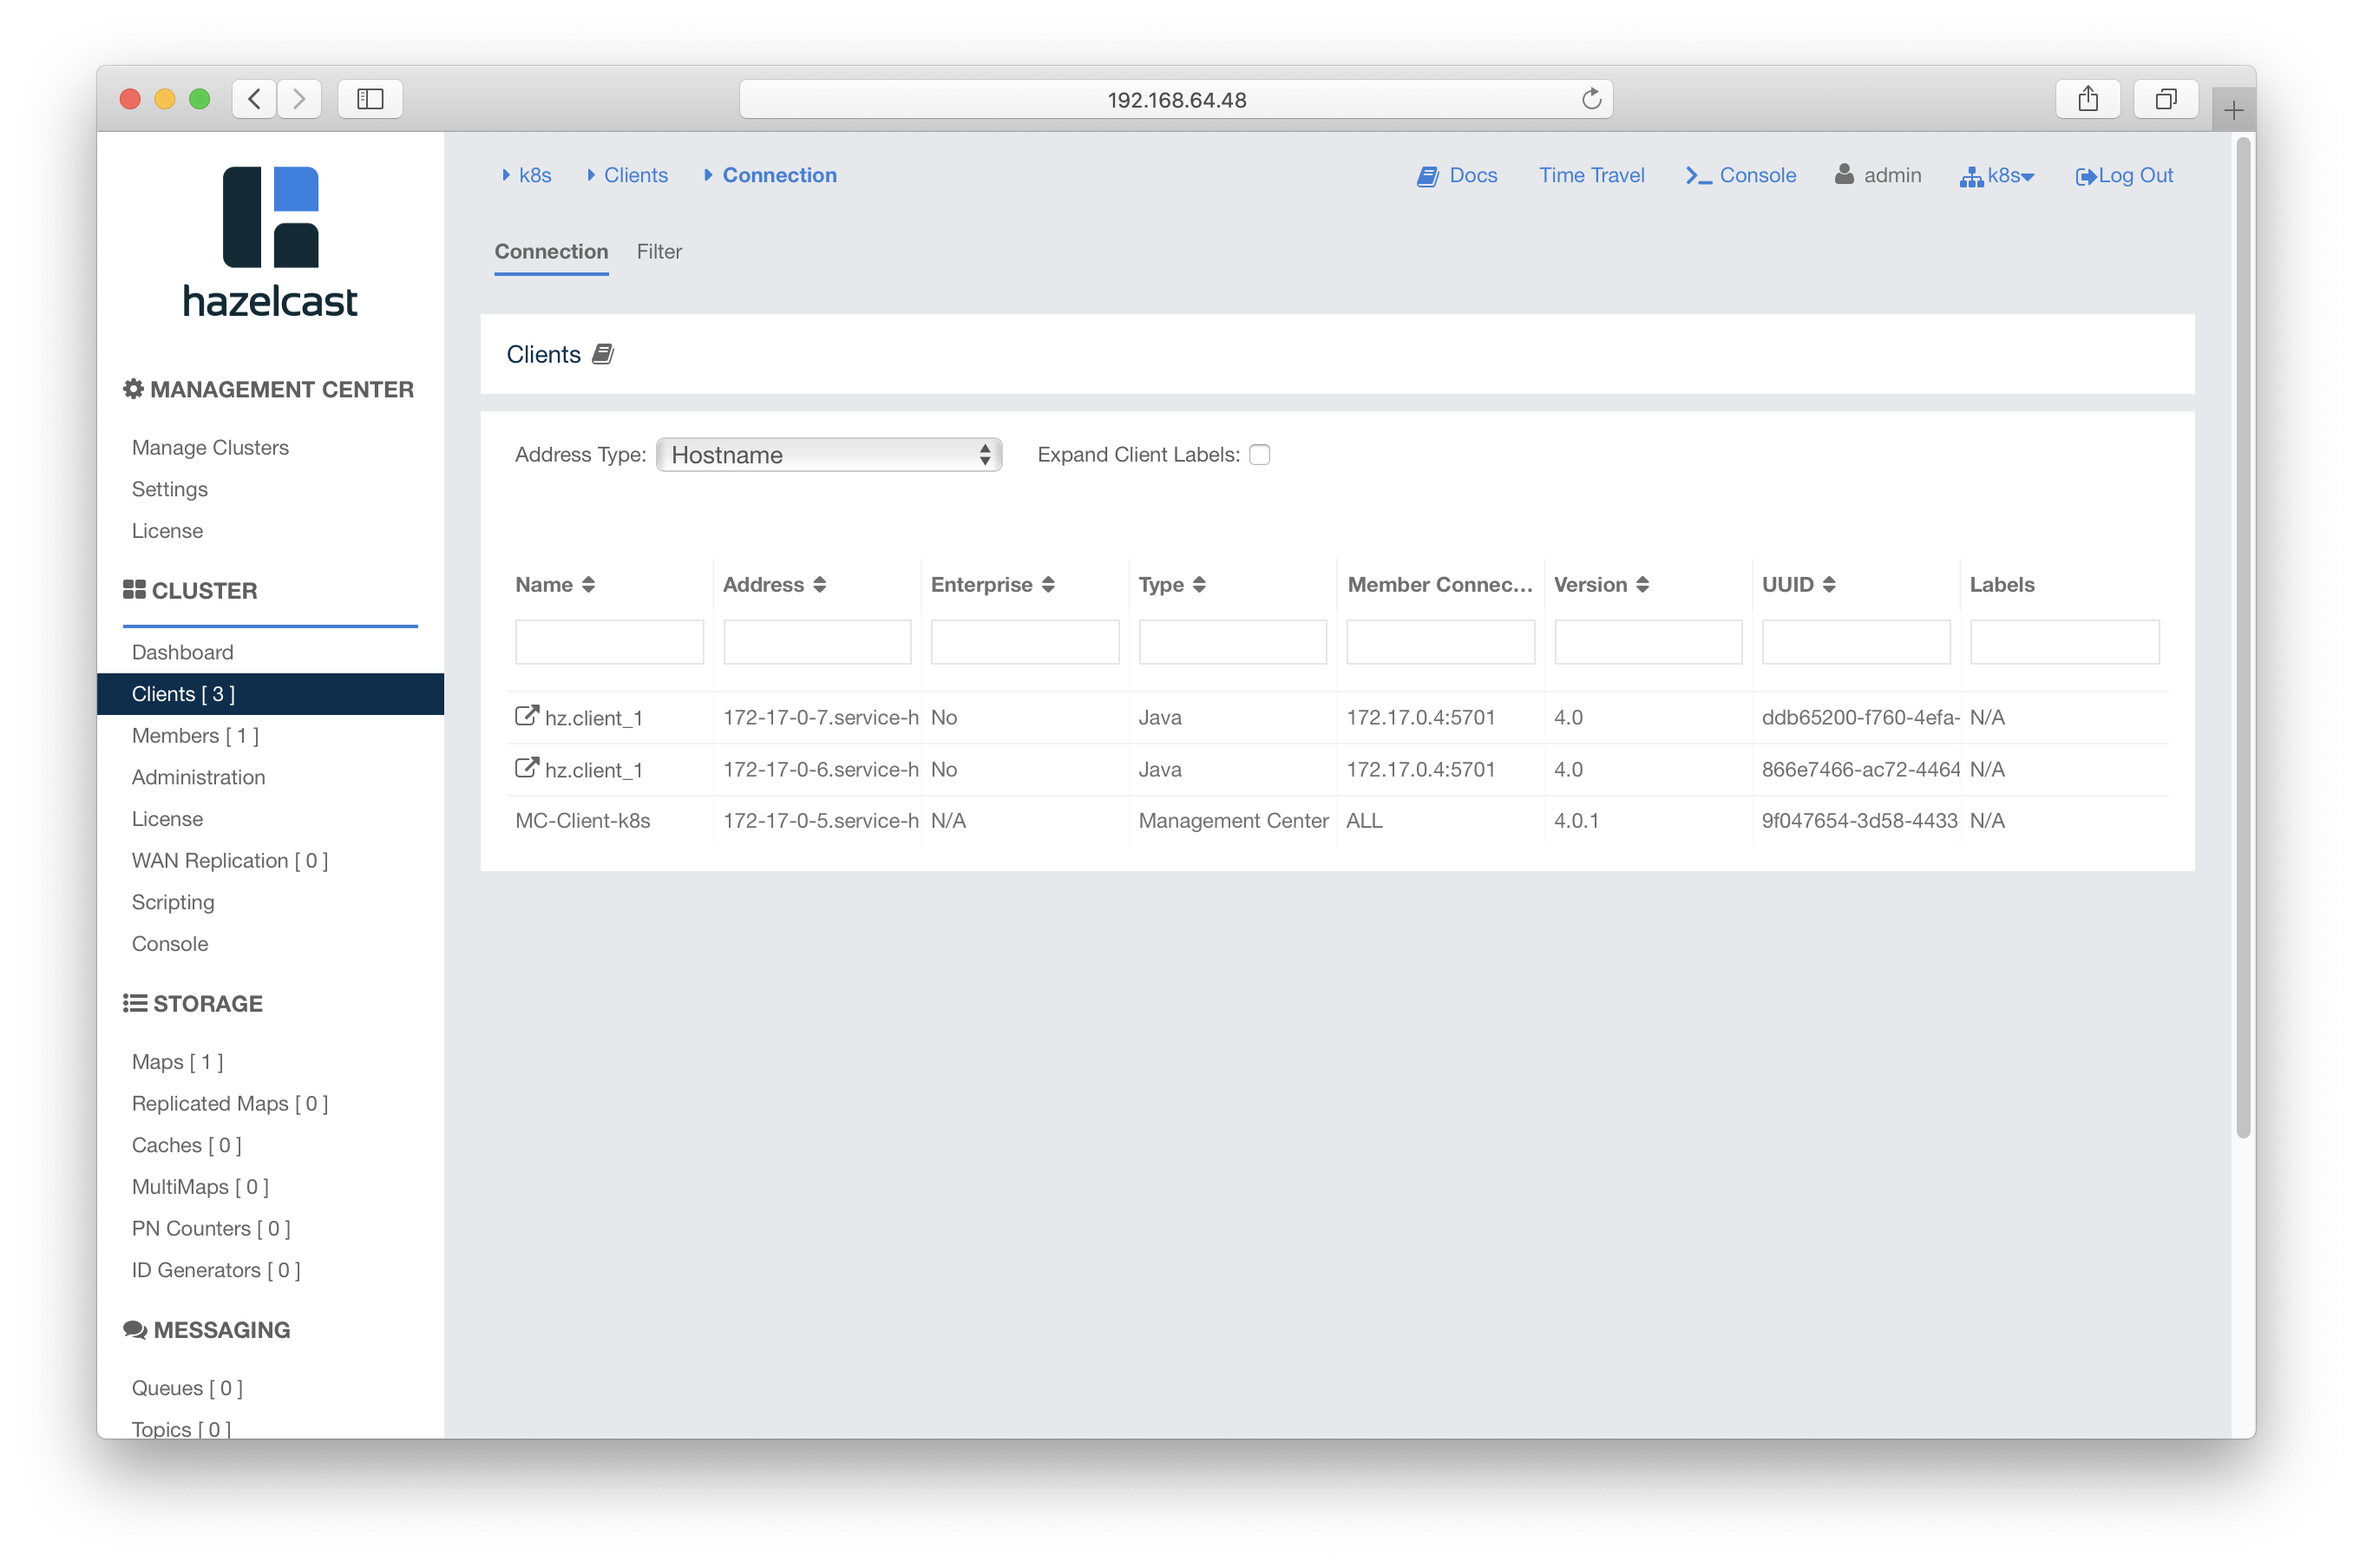
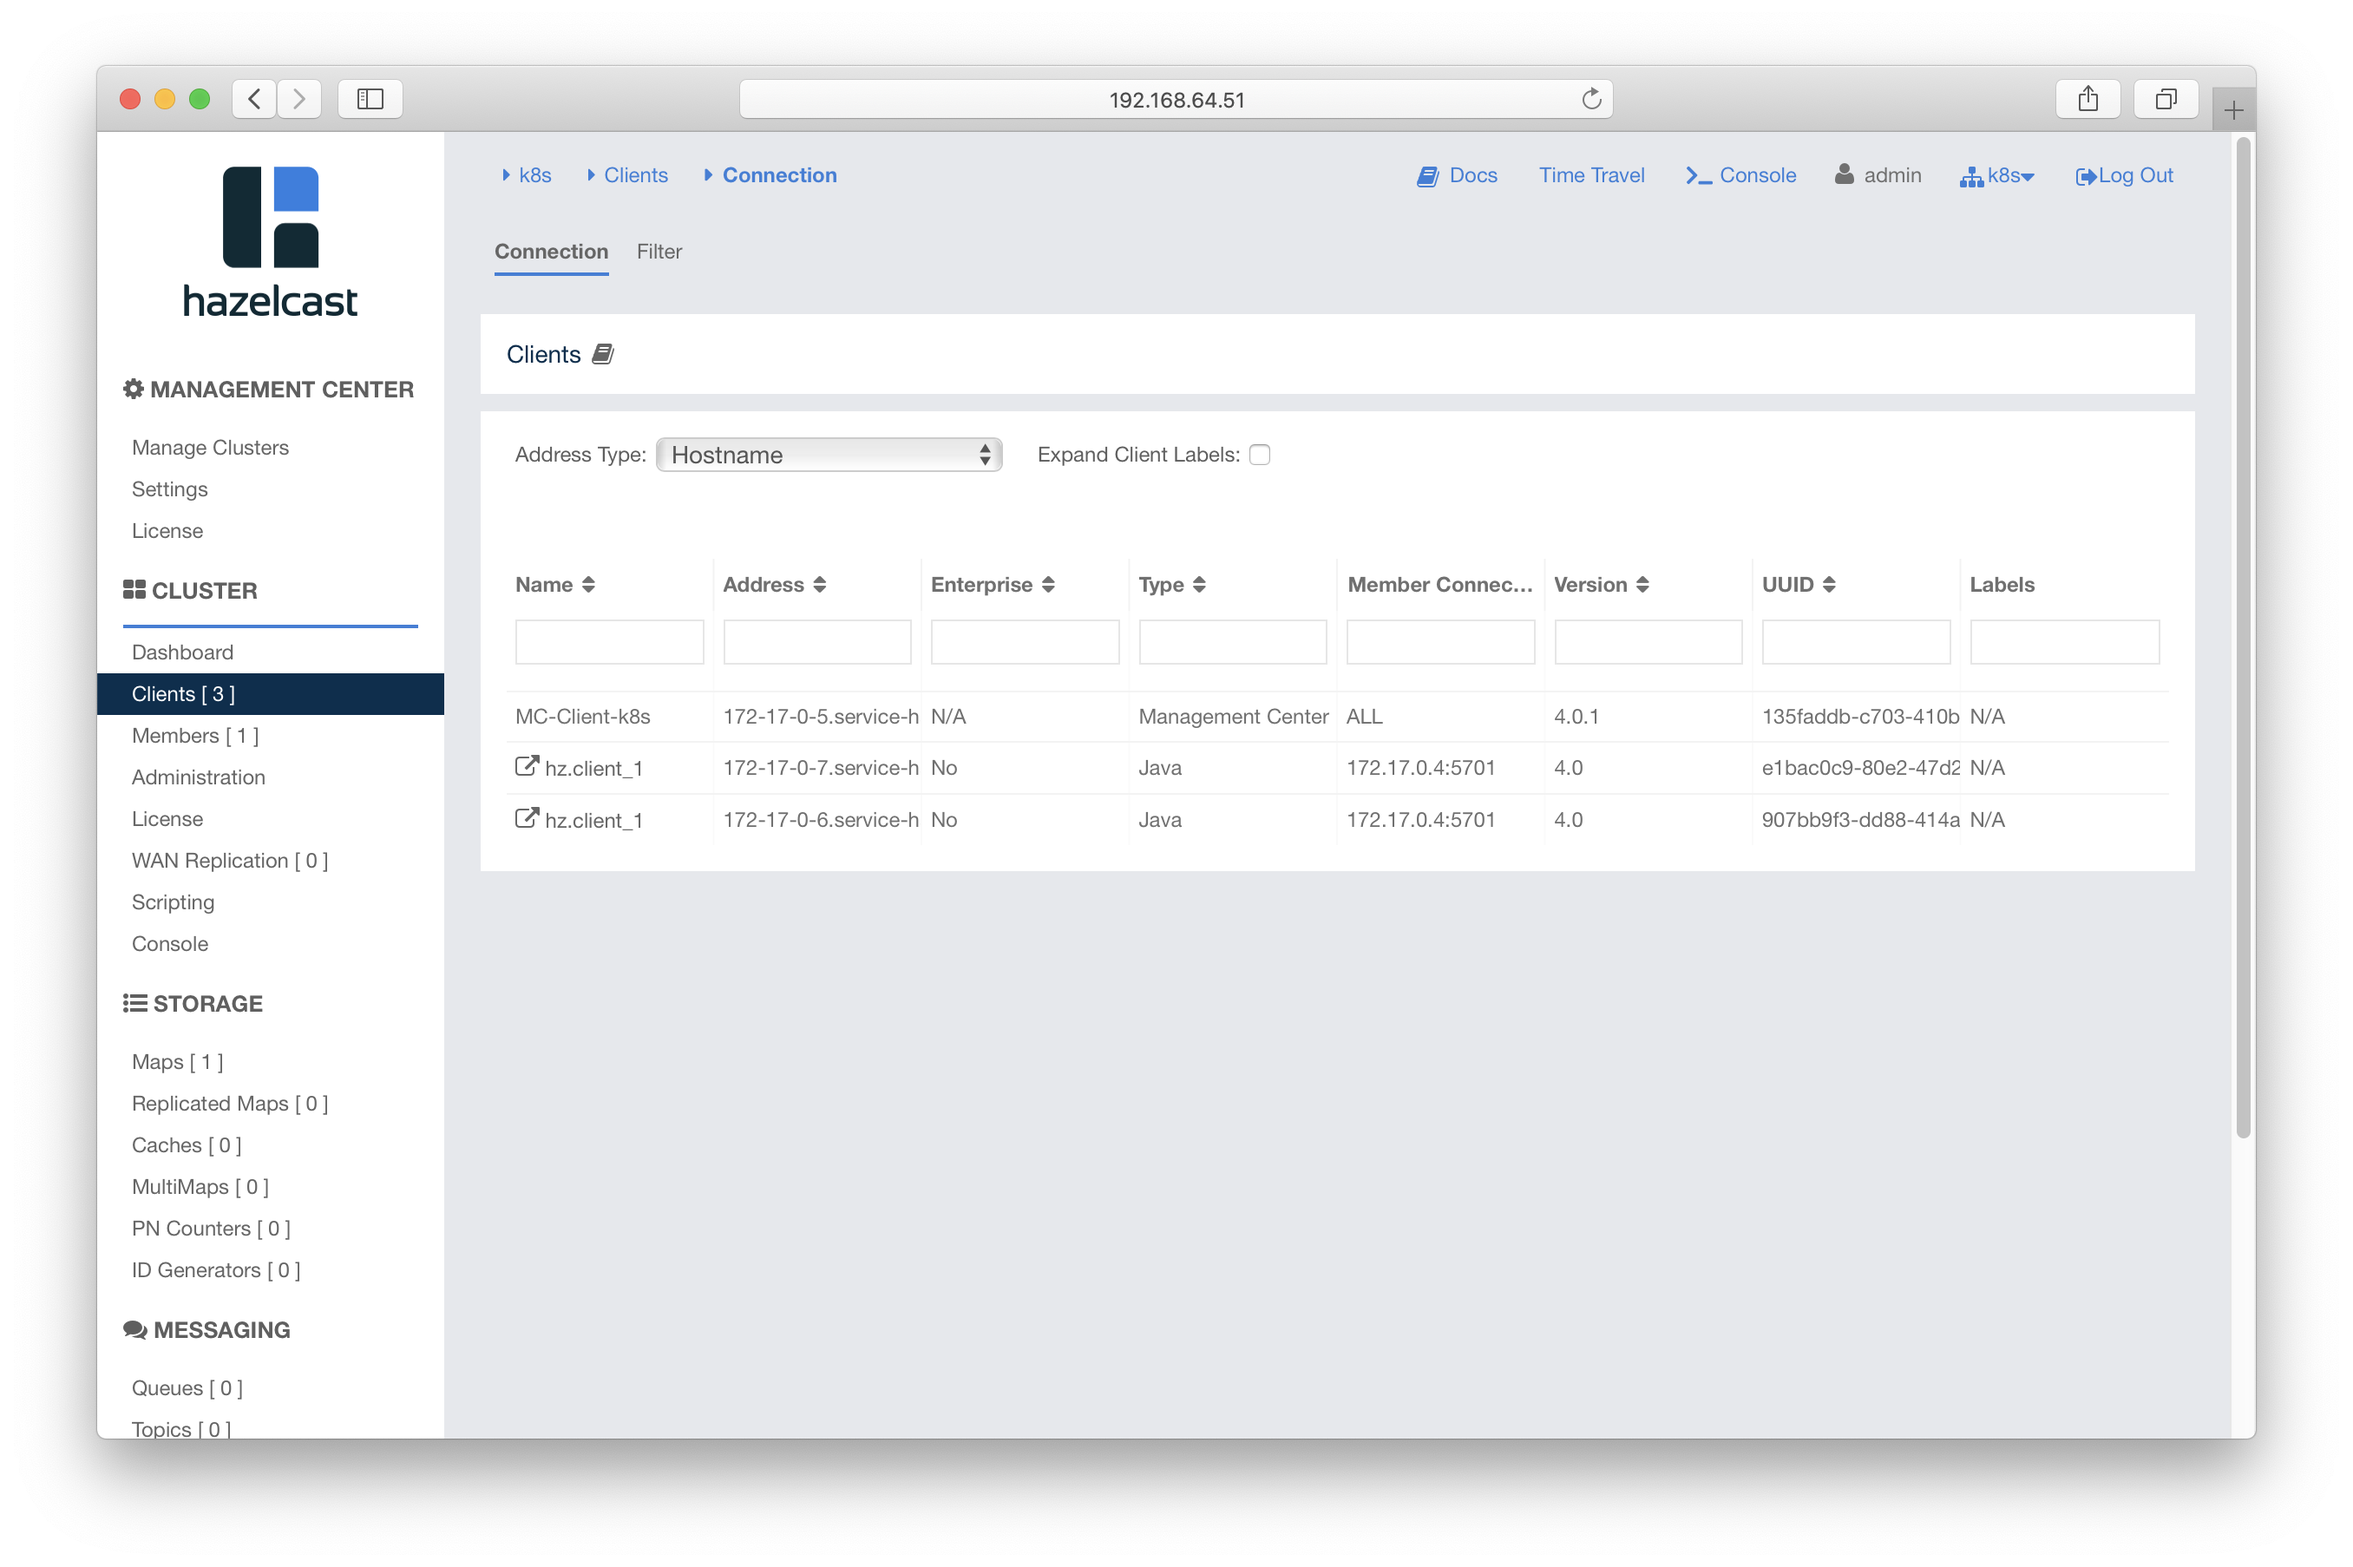
Screenshots

diff --git a/hazelcast-integration/kubernetes/samples/springboot-k8s-hello-world/README.md b/hazelcast-integration/kubernetes/samples/springboot-k8s-hello-world/README.md
@@ -552,10 +552,11 @@ the relevant executable Spring Boot application _Jar_.
 
 #### After
 
-If all has gone well, you should now have 5 extra Docker images,
-the three downloaded and the two made by Maven:
+If all has gone well, you should now have even more Docker images,
+the three downloaded and the new ones made by Maven, which we
+have named with the prefix _"springboot-k8s-hello-world"_:
 
-![Image of Docker images after pull][Screenshot13] 
+![Image of Docker images after build][Screenshot13] 
 
 There will be other images, the images that were there when we
 first started the environment plus any output from Maven builds
@@ -659,7 +660,7 @@ minikube service service-hazelcast-management-center --url --format "http://{{.I
 
 Now we know the Management Center's web address.
 
-In the screenshot above it is host 192.168.64.48 port 30885.
+In the screenshot above it is host 192.168.64.51 port 31871.
 
 The output of the Minikube service query is the full URL to paste
 into a browser to get access to the Management Center.
@@ -804,9 +805,11 @@ The above client shows _"index()"_ running twice.
 
 The above client shows _"index()"_ running once.
 
+And we can see these clients on the Management Center.
+
 ![Image of Hazelcast management center with clients][Screenshot26] 
 
-Remember, clients don't show by default. These ones are
+Remember, clients details don't show by default. These ones are
 visible as we've set `hazelcast.client.statistics.enabled` to "_true_"
 in the client's `hazelcast-client.xml` file.
 
